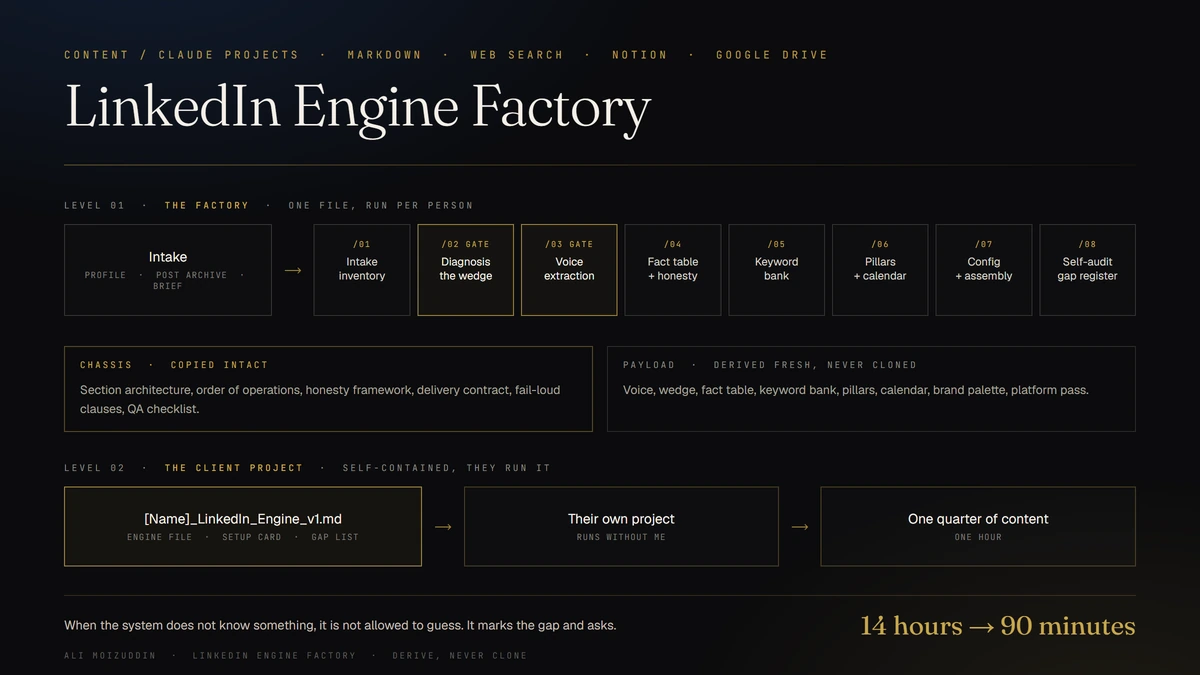
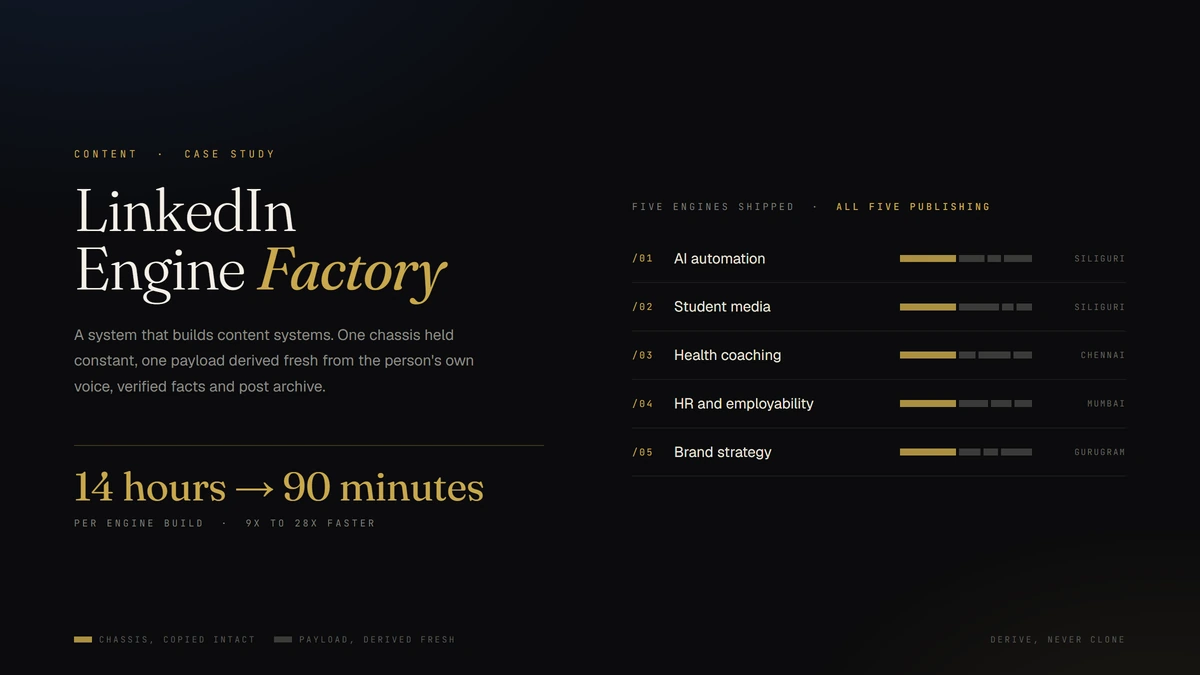
Redraw the Factory card and drop every frozen model version
The first card tried to show the whole pipeline and read as clutter. It now
carries one idea: five shipped engines across five domains and four cities,
each sharing an identical chassis bar and a different payload. Title, the
headline metric and a legend fill the rest, with room to breathe.

Replace every "GPT-4" and "GPT-4-mini" with OpenAI or an OpenAI model across
the stack marquee, the project stacks and the Phantom-Spend copy. Naming a
frozen version dates the work and misstates what actually runs.

diff --git a/alimoizuddin-Website/frontend/src/data/site.js b/alimoizuddin-Website/frontend/src/data/site.js
@@ -324,8 +324,8 @@ export const PROJECTS = [
     "abstract": 3,
     "image": {
       "src": "/images/projects/linkedin-engine-factory.webp",
-      "alt": "Diagram of the LinkedIn Engine Factory showing the chassis and payload split feeding an eight stage build pipeline",
-      "caption": "One chassis held constant. Payload derived fresh for every subject."
+      "alt": "Five shipped engines listed by domain and city, each sharing one gold chassis bar and a different payload pattern",
+      "caption": "Five engines, five domains, one chassis. The payload is different every time."
     },
     "caseStudy": true,
     "detail": {
@@ -626,7 +626,7 @@ export const PROJECTS = [
       "role": "Solo build - voice-to-asset architect",
       "stack": [
         "Whisper",
-        "GPT-4",
+        "OpenAI",
         "Python",
         "n8n",
         "Document workspace API"
@@ -661,7 +661,7 @@ export const PROJECTS = [
     "detail": {
       "role": "Solo build - identity-system architect",
       "stack": [
-        "GPT-4 + Claude",
+        "OpenAI + Claude",
         "Bespoke prompt systems",
         "Voice fingerprint extraction",
         "Anti-AI-ese guardrails"
@@ -697,7 +697,7 @@ export const PROJECTS = [
     "id": "phantom-spend",
     "category": "INFRASTRUCTURE",
     "title": "Phantom-Spend SaaS Auditor",
-    "description": "Full-stack financial auditing tool ingesting CSV via webhook, using GPT-4-mini to identify redundant subscriptions - visualized in a React + Tailwind dashboard.",
+    "description": "Full-stack financial auditing tool ingesting CSV via webhook, using an OpenAI model to identify redundant subscriptions - visualized in a React + Tailwind dashboard.",
     "metric": "8 to 12 tools flagged / audit",
     "proofUrl": "https://github.com/alimoizuddin/phantom-spend-saas-auditor",
     "abstract": 3,
@@ -712,14 +712,14 @@ export const PROJECTS = [
       "stack": [
         "React",
         "Tailwind CSS",
-        "GPT-4-mini",
+        "OpenAI model",
         "Webhook ingestion",
         "CSV parsing"
       ],
       "problem": "Most operators have no idea how much they spend on duplicate SaaS. Their bookkeeping shows the cost. It doesn't show the redundancy.",
       "approach": [
         "Drop a CSV of subscription data into the auditor.",
-        "GPT-4-mini classifies tools, clusters by capability, and identifies overlap.",
+        "An OpenAI model classifies tools, clusters by capability, and identifies overlap.",
         "Custom React + Tailwind dashboard visualizes redundancy + estimated waste.",
         "Operator decides what to cut - system never auto-cancels."
       ],

diff --git a/alimoizuddin-Website/frontend/src/context/ContentContext.jsx b/alimoizuddin-Website/frontend/src/context/ContentContext.jsx
@@ -52,7 +52,7 @@ const buildDefaults = () => ({
   education: DEFAULTS.EDUCATION,
   projectCategories: DEFAULTS.PROJECT_CATEGORIES,
   stackMarquee: [
-    "GPT-4", "Gemini", "Claude", "Whisper", "n8n", "Apollo.io", "Apify",
+    "OpenAI", "Gemini", "Claude", "Whisper", "n8n", "Apollo.io", "Apify",
     "Pinecone", "ElevenLabs", "HeyGen", "VAPI.ai", "Lovable.dev",
     "React", "Tailwind", "Firebase", "Python", "Power BI", "DAX",
     "BM25", "RAG", "OCR", "Anki",

diff --git a/alimoizuddin-Website/backend/seed_data.py b/alimoizuddin-Website/backend/seed_data.py
@@ -115,7 +115,7 @@ DEFAULT_EDUCATION = [
 
 DEFAULT_PROJECT_CATEGORIES = ["ALL", "AUTOMATION", "EDTECH", "CONTENT", "INFRASTRUCTURE", "BE10X COHORT"]
 
-DEFAULT_STACK_MARQUEE = ["GPT-4", "Gemini", "Claude", "Whisper", "n8n", "Apollo.io", "Apify", "Pinecone", "ElevenLabs", "HeyGen", "VAPI.ai", "Lovable.dev", "React", "Tailwind", "Firebase", "Python", "Power BI", "DAX", "BM25", "RAG", "OCR", "Anki"]
+DEFAULT_STACK_MARQUEE = ["OpenAI", "Gemini", "Claude", "Whisper", "n8n", "Apollo.io", "Apify", "Pinecone", "ElevenLabs", "HeyGen", "VAPI.ai", "Lovable.dev", "React", "Tailwind", "Firebase", "Python", "Power BI", "DAX", "BM25", "RAG", "OCR", "Anki"]
 
 # Projects with optional case study detail. Long, but it's a one-time seed.
 DEFAULT_PROJECTS = []  # populated from JSON to keep this file manageable
